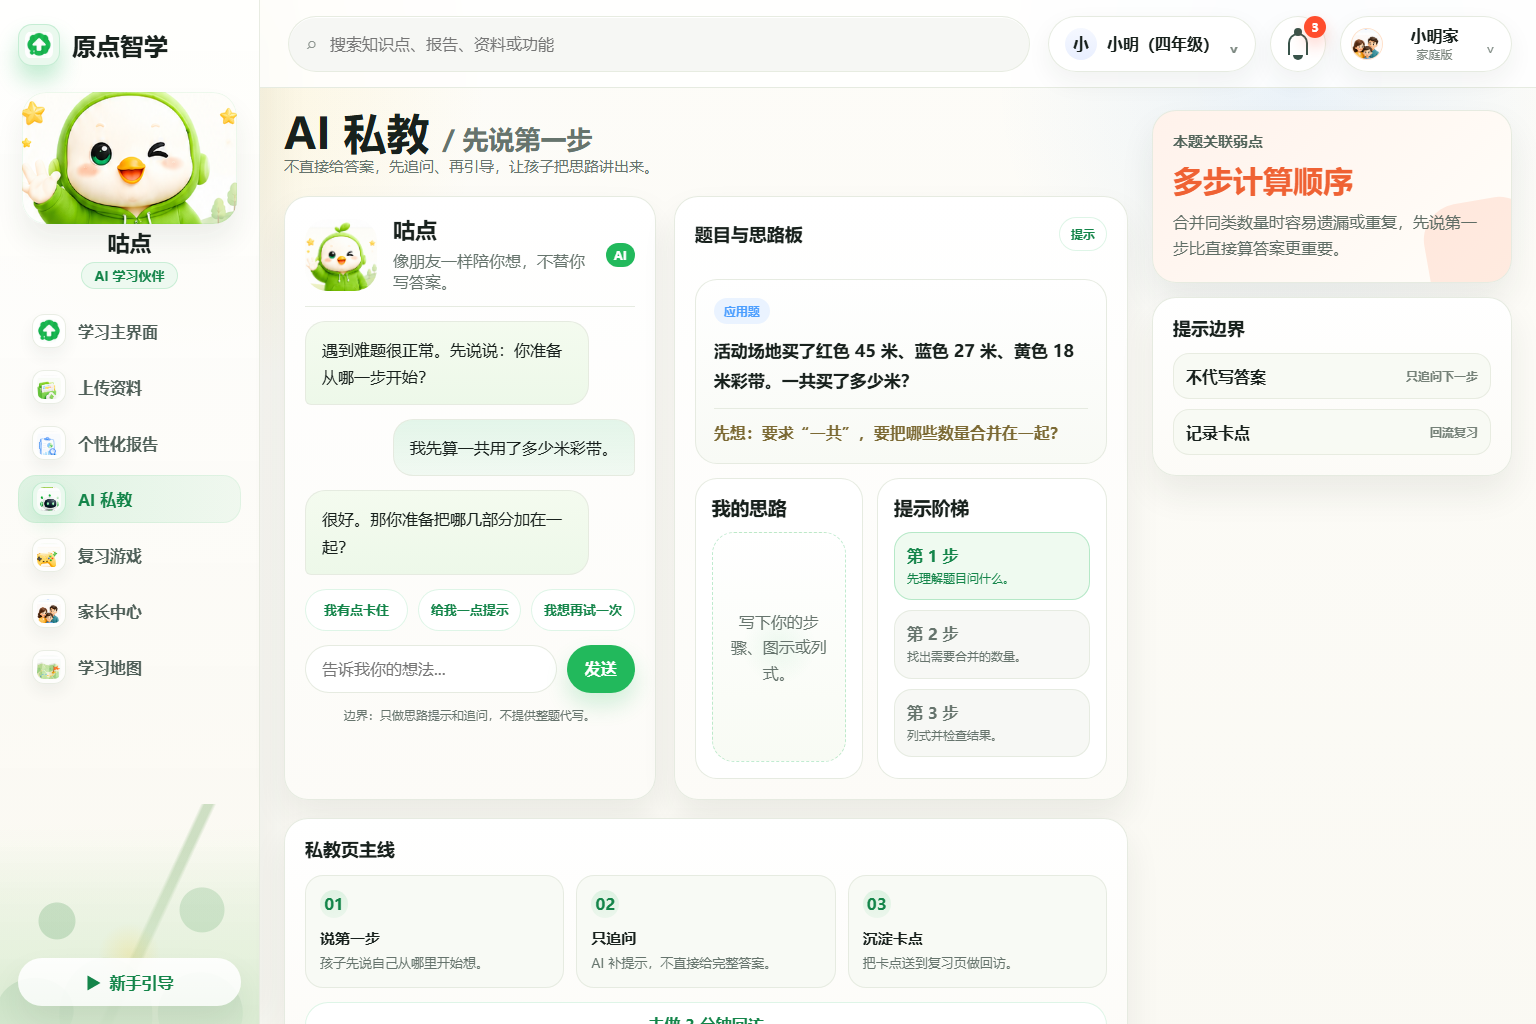
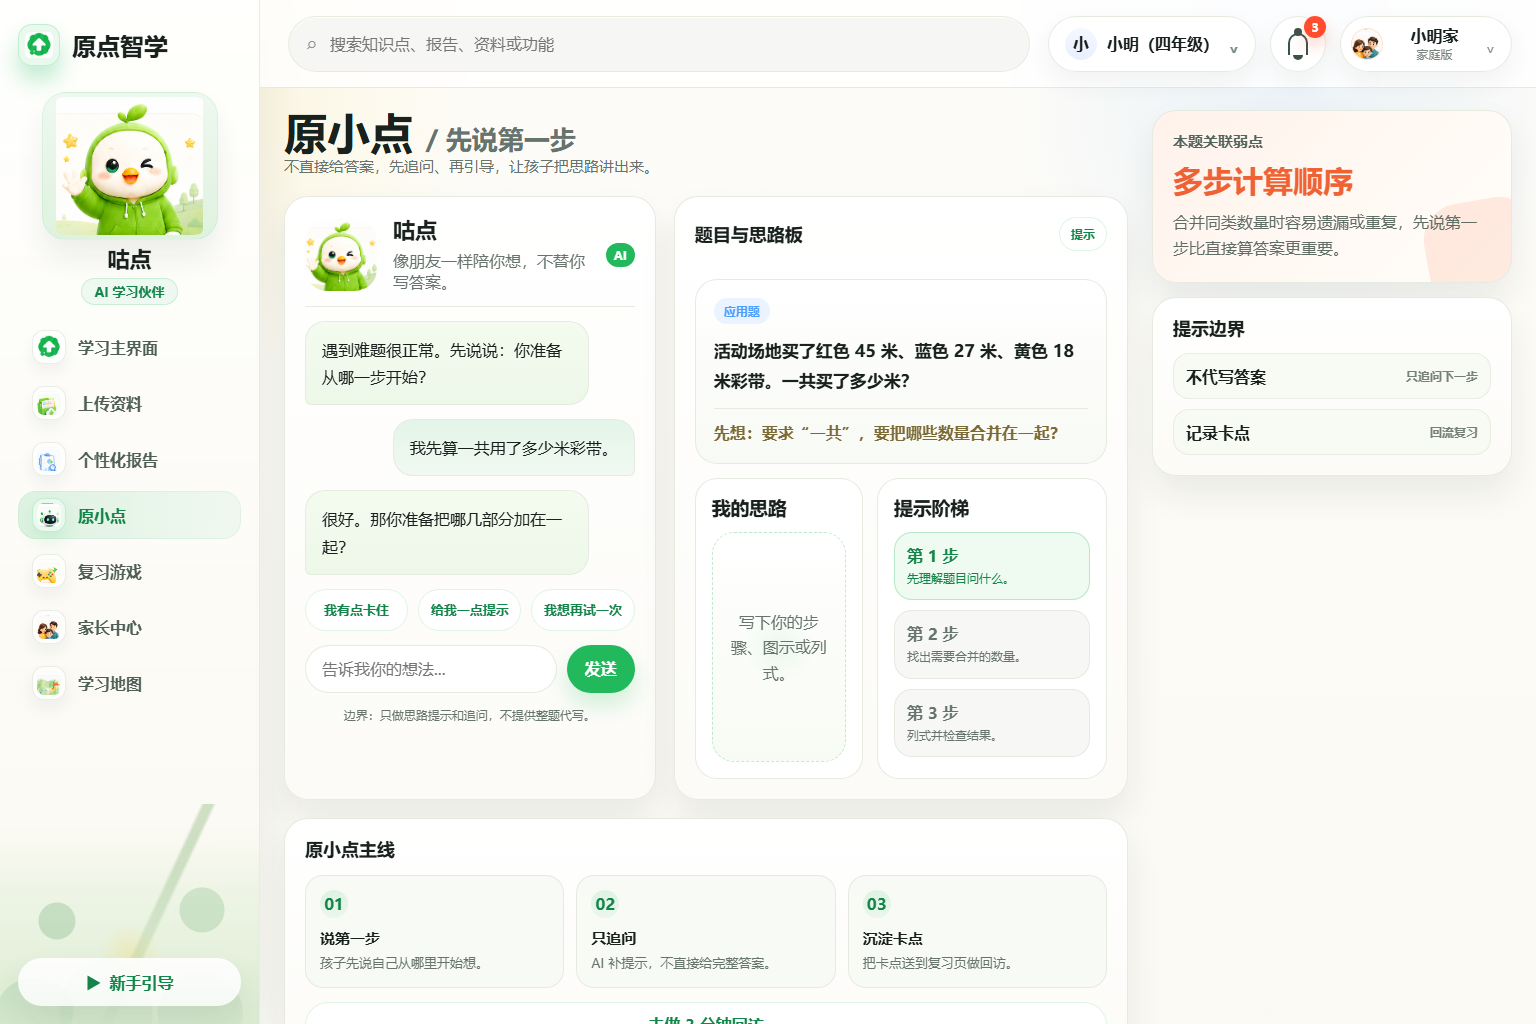
remove retired web visual system

Changed region(s): [[0.0, 0.0625, 0.1562, 0.6875], [0.1875, 0.0938, 0.4062, 0.1562], [0.1875, 0.8125, 0.25, 0.8438]]

diff --git a/apps/web/src/styles.css b/apps/web/src/styles.css
@@ -140,21 +140,20 @@ img {
   padding: 8px 4px 0;
 }
 
-.mascot-img,
-.mascot {
+.mascot-img {
   width: 100%;
   height: auto;
   border-radius: 24px;
 }
 
-.mascot {
-  min-height: 132px;
-  background:
-    url("../assets/reference/hero-mascot.png") center 54% / 112% auto no-repeat,
-    radial-gradient(circle at 35% 36%, rgba(255, 255, 255, 0.88), transparent 32%),
-    radial-gradient(circle at 70% 40%, rgba(255, 255, 255, 0.6), transparent 22%),
-    linear-gradient(180deg, #eef8ef, #dff2df);
-  box-shadow: inset 0 0 0 1px rgba(34, 185, 92, 0.08), 0 18px 28px rgba(34, 58, 42, 0.08);
+.mascot-side {
+  width: 176px;
+  height: 148px;
+  object-fit: contain;
+  padding: 4px;
+  background: linear-gradient(180deg, #eef8ef, #dff2df);
+  border: 1px solid rgba(34, 185, 92, 0.08);
+  box-shadow: 0 18px 28px rgba(34, 58, 42, 0.08);
 }
 
 .buddy-card strong {
@@ -958,14 +957,6 @@ img {
   border-radius: 24px;
 }
 
-.entry-visual::before,
-.entry-visual::after,
-.entry-visual span {
-  content: "";
-  position: absolute;
-  display: block;
-}
-
 .entry-card.green .entry-visual {
   background-color: #effaf0;
 }
@@ -980,158 +971,6 @@ img {
 
 .entry-card.orange .entry-visual {
   background-color: #fff2eb;
-}
-
-.art-folder::before {
-  left: 18px;
-  top: 42px;
-  width: 76px;
-  height: 48px;
-  border-radius: 10px 10px 16px 16px;
-  background: linear-gradient(180deg, #74d971, #22b95c);
-  box-shadow: inset 0 -8px 0 rgba(11, 96, 47, 0.1);
-}
-
-.art-folder::after {
-  left: 22px;
-  top: 32px;
-  width: 42px;
-  height: 18px;
-  border-radius: 9px 12px 0 0;
-  background: #98e689;
-}
-
-.art-folder span,
-.art-report span,
-.art-map span {
-  display: none;
-}
-
-.art-folder {
-  background:
-    radial-gradient(circle at 72% 74%, #ffffff 0 13px, transparent 14px),
-    radial-gradient(circle at 72% 74%, #22b95c 0 22px, transparent 23px),
-    linear-gradient(180deg, #ffffff, #effaf0);
-}
-
-.art-report::before {
-  left: 30px;
-  top: 18px;
-  width: 54px;
-  height: 76px;
-  border: 3px solid #4c9fff;
-  border-radius: 14px;
-  background:
-    linear-gradient(90deg, #cfe7ff 0 20px, transparent 21px),
-    linear-gradient(#f8c622 0 0) 30px 20px / 15px 15px no-repeat,
-    linear-gradient(#22b95c 0 0) 30px 42px / 15px 15px no-repeat,
-    #ffffff;
-  box-shadow: 0 10px 18px rgba(76, 159, 255, 0.18);
-}
-
-.art-report::after {
-  right: 14px;
-  bottom: 14px;
-  width: 36px;
-  height: 36px;
-  border: 5px solid #4c9fff;
-  border-radius: 50%;
-  background: rgba(255, 255, 255, 0.75);
-  box-shadow: 13px 13px 0 -6px #4c9fff;
-}
-
-.art-bot::before {
-  left: 24px;
-  top: 36px;
-  width: 64px;
-  height: 48px;
-  border-radius: 24px 24px 18px 18px;
-  background: #1f2a24;
-  box-shadow: 0 12px 20px rgba(31, 42, 36, 0.16);
-}
-
-.art-bot::after {
-  left: 42px;
-  top: 51px;
-  width: 10px;
-  height: 10px;
-  border-radius: 50%;
-  background: #8dffb2;
-  box-shadow: 21px 0 0 #8dffb2, 40px -24px 0 -3px #22b95c;
-}
-
-.art-gamepad::before {
-  left: 17px;
-  top: 46px;
-  width: 78px;
-  height: 44px;
-  border-radius: 18px 18px 28px 28px;
-  background: linear-gradient(180deg, #ffd84a, #f8b617);
-  box-shadow: 0 14px 22px rgba(248, 198, 34, 0.2);
-}
-
-.art-gamepad::after {
-  left: 34px;
-  top: 58px;
-  width: 28px;
-  height: 8px;
-  border-radius: 8px;
-  background: #2a3440;
-  box-shadow:
-    10px -10px 0 -1px #2a3440,
-    10px 10px 0 -1px #2a3440,
-    50px -2px 0 -1px #22b95c,
-    64px -9px 0 -2px #ff7a45,
-    65px 8px 0 -2px #4c9fff;
-}
-
-.art-family::before {
-  left: 16px;
-  bottom: 19px;
-  width: 80px;
-  height: 48px;
-  border-radius: 20px;
-  background:
-    radial-gradient(circle at 22px 16px, #ffd9bd 0 11px, transparent 12px),
-    radial-gradient(circle at 42px 11px, #ffd9bd 0 12px, transparent 13px),
-    radial-gradient(circle at 60px 19px, #ffd9bd 0 10px, transparent 11px),
-    linear-gradient(90deg, #ff9c6a 0 33%, #3f94e8 33% 66%, #22b95c 66%);
-  box-shadow: 0 12px 20px rgba(255, 122, 69, 0.15);
-}
-
-.art-family::after {
-  left: 26px;
-  top: 35px;
-  width: 60px;
-  height: 18px;
-  border-radius: 999px;
-  background:
-    radial-gradient(circle at 6px 7px, #5a3926 0 5px, transparent 6px),
-    radial-gradient(circle at 28px 5px, #5a3926 0 6px, transparent 7px),
-    radial-gradient(circle at 50px 8px, #5a3926 0 5px, transparent 6px);
-}
-
-.art-map::before {
-  left: 20px;
-  top: 28px;
-  width: 72px;
-  height: 64px;
-  clip-path: polygon(0 8%, 32% 0, 66% 8%, 100% 0, 100% 92%, 68% 100%, 34% 92%, 0 100%);
-  background:
-    linear-gradient(130deg, transparent 0 38%, rgba(76, 159, 255, 0.55) 39% 45%, transparent 46%),
-    linear-gradient(35deg, transparent 0 48%, rgba(34, 185, 92, 0.55) 49% 55%, transparent 56%),
-    linear-gradient(90deg, #dff3d9 0 34%, #ffffff 34% 66%, #dcefff 66%);
-  box-shadow: 0 12px 20px rgba(34, 185, 92, 0.12);
-}
-
-.art-map::after {
-  right: 26px;
-  top: 22px;
-  width: 22px;
-  height: 34px;
-  border-radius: 8px 8px 8px 0;
-  background: #ff7a45;
-  box-shadow: -12px 4px 0 -7px #14854a;
 }
 
 .entry-card strong,

diff --git a/apps/web/index.html b/apps/web/index.html
@@ -16,7 +16,7 @@
         </a>
 
         <section class="buddy-card">
-          <div class="mascot mascot-side" role="img" aria-label="咕点"></div>
+          <img class="mascot-img mascot-side" src="./assets/reference/hero-mascot.png" alt="咕点" />
           <strong>咕点</strong>
           <span>AI 学习伙伴</span>
         </section>
